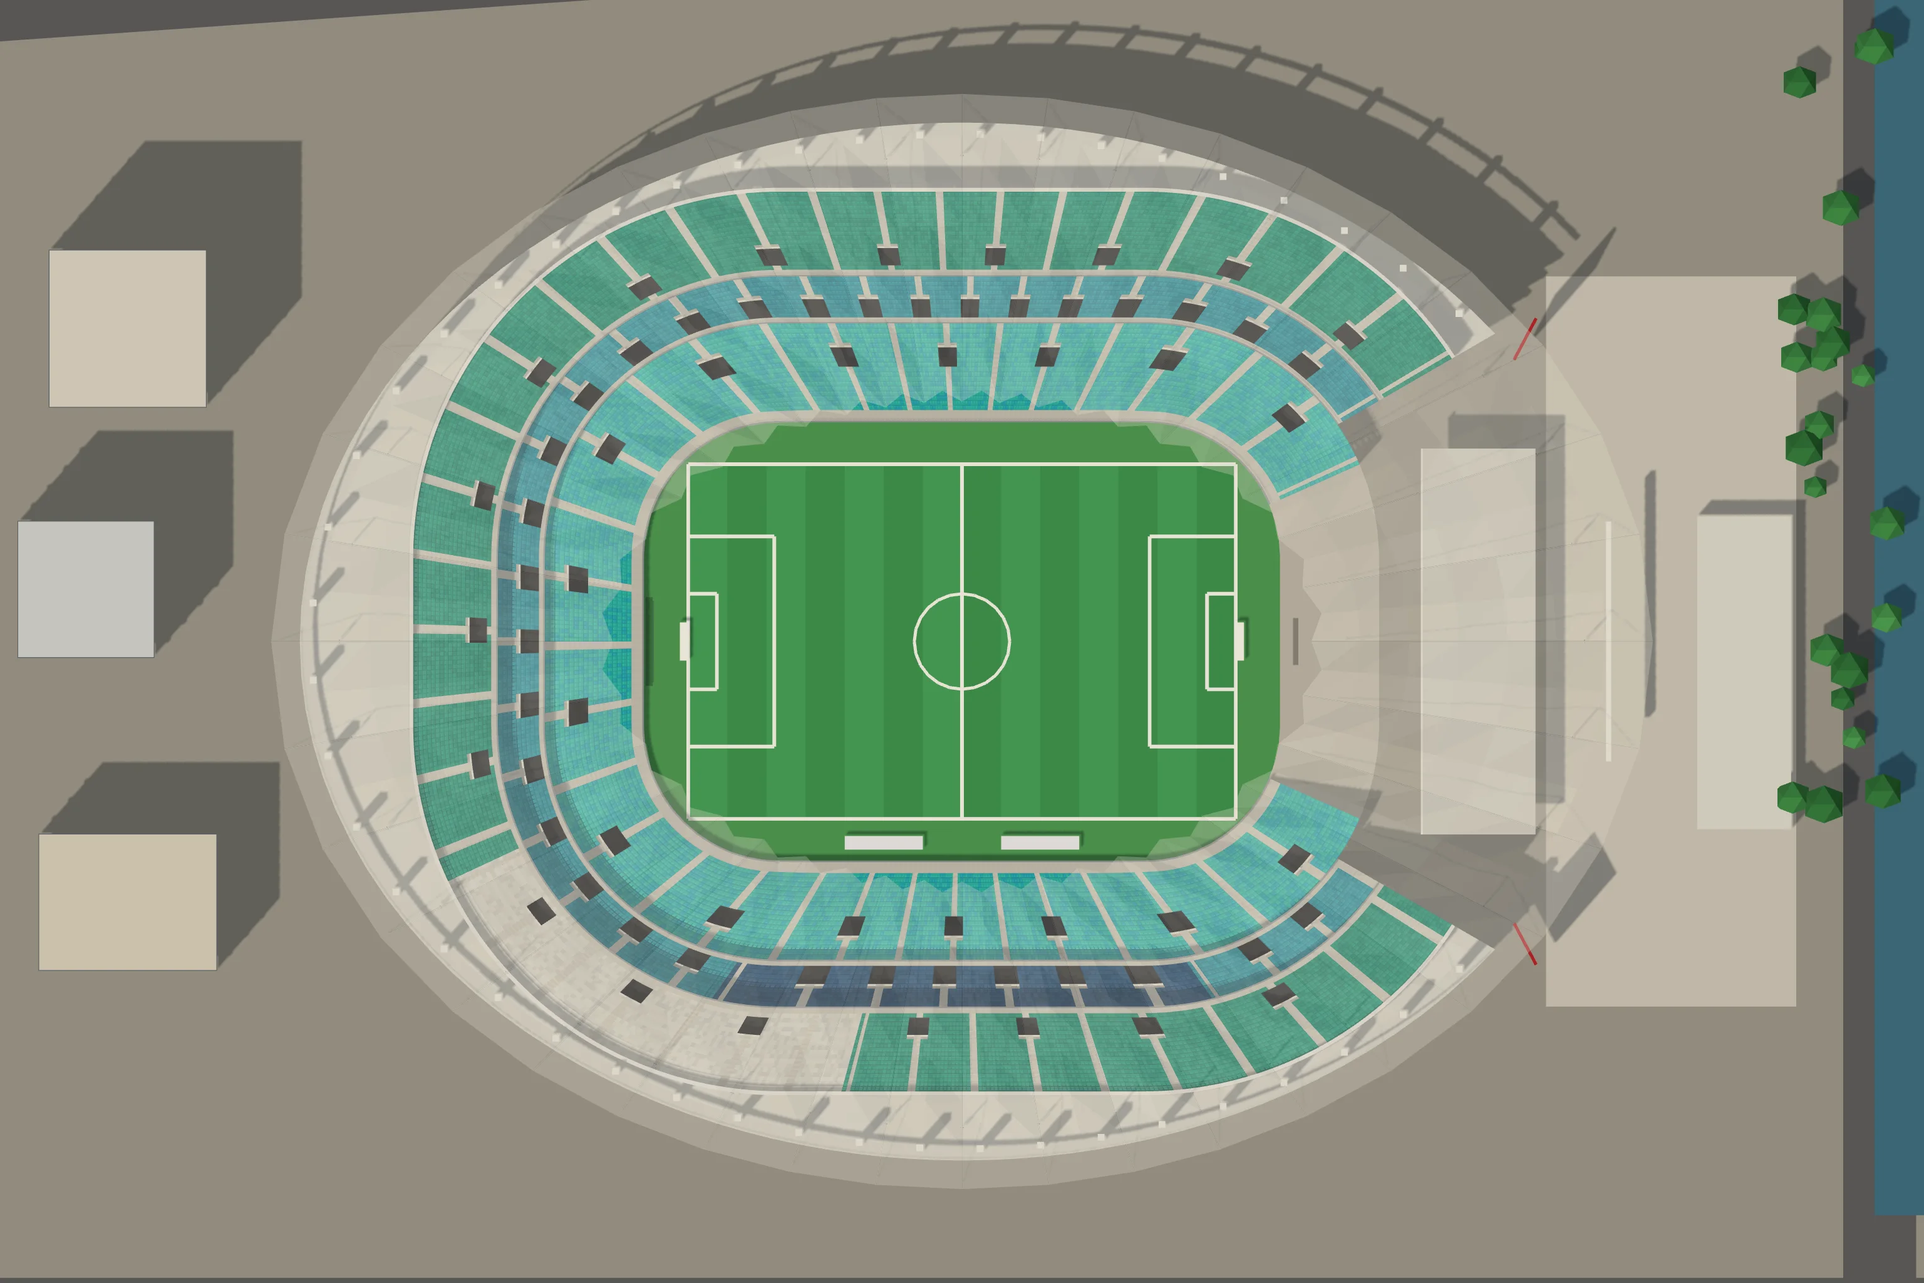
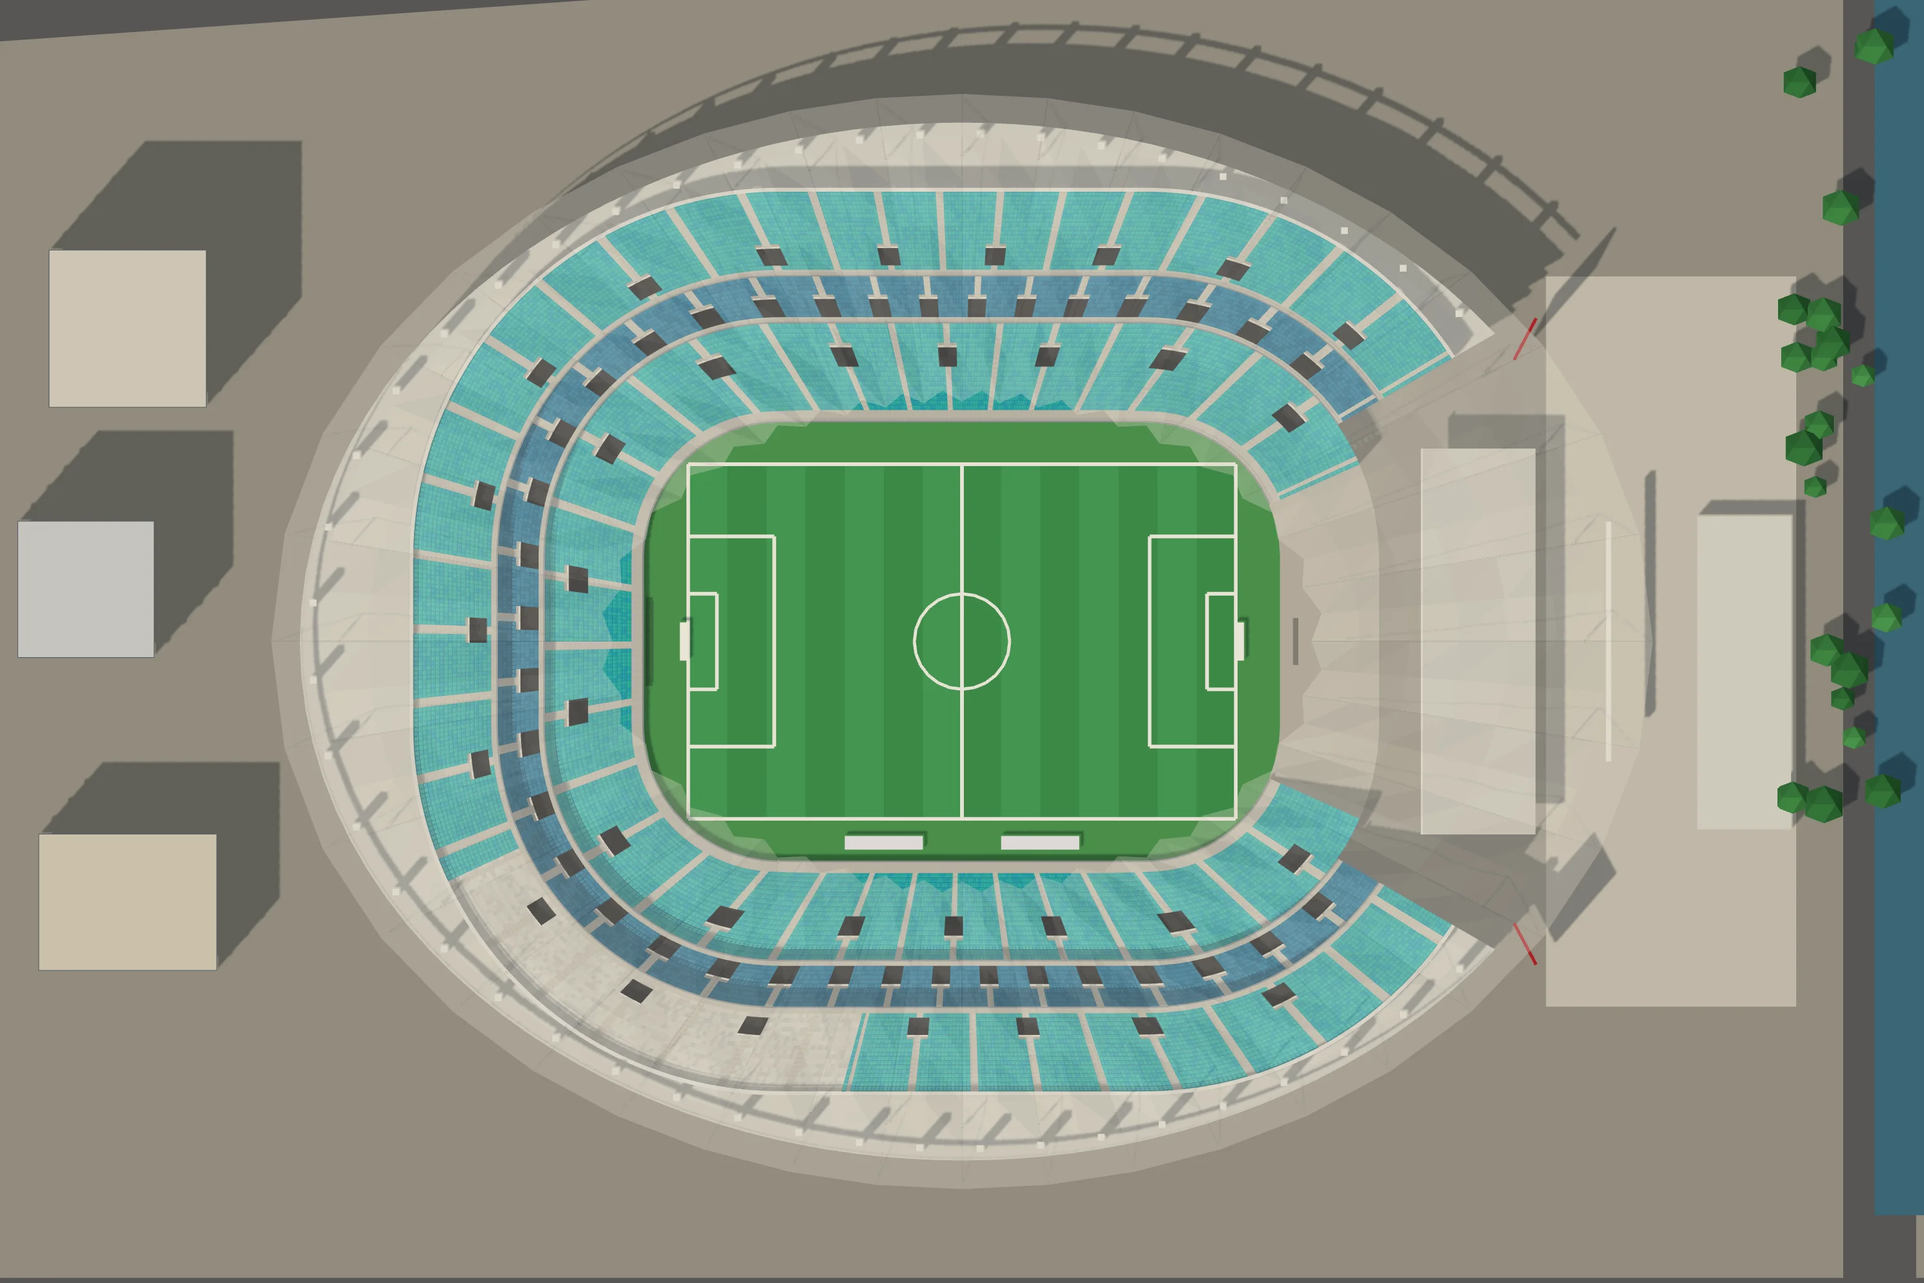
Fonte Nova: azul claro embaixo e em cima, só o anel do meio de outro tom
Claude-Session: https://claude.ai/code/session_019hwwMAyyP7ZAvyq6wYTetr

Changed region(s): [[0.1875, 0.125, 0.75, 0.875]]

diff --git a/cenario3d/planta.html b/cenario3d/planta.html
@@ -289,24 +289,24 @@ button:focus-visible, input:focus-visible { outline: 2px solid var(--selecao); o
 
 <script type="module">
 import * as THREE from 'https://cdn.jsdelivr.net/npm/three@0.160.0/build/three.module.min.js';
-import { planoDaCasa, montarCasa, juntarBlocos, lugarDoDecalque, placasDoLote, segmentosDoMuro, carrosDoEstacionamento, portaoDoEstacionamento } from './js/casas3d.js?v=3123ea01e8';
-import { montarModelos } from './js/modelos3d.js?v=3123ea01e8';
-import { moldeDaPeca, comTransformador } from './js/props3d.js?v=3123ea01e8';
-import { ATLAS } from './js/modelos_atlas.js?v=3123ea01e8';
-import { Construtor, sorteio } from './js/construtor3d.js?v=3123ea01e8';
-import { gerarProposta, MAPAS, MAPA_DO_PORTE, RUA, LONGE_DO_ESTADIO_M, cisaoDaPraca, VAO_CIDADES_M, PRAIA_A_MAIS } from './js/proposta.js?v=3123ea01e8';
-import { montarSede, nivelQueCabe } from './js/sede3d.js?v=3123ea01e8';
-import { onibus as onibusDetalhe, juntar as juntarDetalhe } from './js/detalhe3d.js?v=3123ea01e8';
-import { montarLoteDeVeraneio, plantaDoLote, festaNoMundo, noMundoDoLote, cenaDaFesta, detalheDaCasaDaFesta } from './js/veraneio3d.js?v=3123ea01e8';
-import { montarCaravana, cenaDaCaravana } from './js/caravana3d.js?v=3123ea01e8';
-import { montarEstacao, montarTunel, montarCarro, TREM } from './js/metro3d.js?v=3123ea01e8';
-import { montarShopping, montarDelegacia, montarPraca, montarIgreja, montarEscola, montarHospital } from './js/equip3d.js?v=3123ea01e8';
-import { montarEquipAntigo, TIPOS_ANTIGOS } from './js/equip_antigo3d.js?v=3123ea01e8';
-import { PECAS_PRAIA, montarPecaDaPraia } from './js/praia3d.js?v=3123ea01e8';
-import { ESPECIES_LP, FLORA_LP, montarArvoreLowpoly, montarAsDez, facesDaArvore, especieLowpolyDe } from './js/arvores_lowpoly.js?v=3123ea01e8';
-import { plantarMato, montarMato, LONGE_M, DENSIDADE, LADRILHO_M } from './js/mato3d.js?v=3123ea01e8';
-import { ESTADIOS_JOGO, montarEstadioJogo, glbDoEstadio, cortarEstadio, plantaDoEstadio, modeloDaLotacao, nomeDoLetreiro, nomeComAcento, marcaDoEstadio, BOCAS_DOS_PORTOES, BILHETERIAS_DA_RUA } from './js/estadios3d.js?v=3123ea01e8';
-import { PECAS_AMBULANTES, montarAmbulante } from './js/ambulantes3d.js?v=3123ea01e8';
+import { planoDaCasa, montarCasa, juntarBlocos, lugarDoDecalque, placasDoLote, segmentosDoMuro, carrosDoEstacionamento, portaoDoEstacionamento } from './js/casas3d.js?v=9a17eb557d';
+import { montarModelos } from './js/modelos3d.js?v=9a17eb557d';
+import { moldeDaPeca, comTransformador } from './js/props3d.js?v=9a17eb557d';
+import { ATLAS } from './js/modelos_atlas.js?v=9a17eb557d';
+import { Construtor, sorteio } from './js/construtor3d.js?v=9a17eb557d';
+import { gerarProposta, MAPAS, MAPA_DO_PORTE, RUA, LONGE_DO_ESTADIO_M, cisaoDaPraca, VAO_CIDADES_M, PRAIA_A_MAIS } from './js/proposta.js?v=9a17eb557d';
+import { montarSede, nivelQueCabe } from './js/sede3d.js?v=9a17eb557d';
+import { onibus as onibusDetalhe, juntar as juntarDetalhe } from './js/detalhe3d.js?v=9a17eb557d';
+import { montarLoteDeVeraneio, plantaDoLote, festaNoMundo, noMundoDoLote, cenaDaFesta, detalheDaCasaDaFesta } from './js/veraneio3d.js?v=9a17eb557d';
+import { montarCaravana, cenaDaCaravana } from './js/caravana3d.js?v=9a17eb557d';
+import { montarEstacao, montarTunel, montarCarro, TREM } from './js/metro3d.js?v=9a17eb557d';
+import { montarShopping, montarDelegacia, montarPraca, montarIgreja, montarEscola, montarHospital } from './js/equip3d.js?v=9a17eb557d';
+import { montarEquipAntigo, TIPOS_ANTIGOS } from './js/equip_antigo3d.js?v=9a17eb557d';
+import { PECAS_PRAIA, montarPecaDaPraia } from './js/praia3d.js?v=9a17eb557d';
+import { ESPECIES_LP, FLORA_LP, montarArvoreLowpoly, montarAsDez, facesDaArvore, especieLowpolyDe } from './js/arvores_lowpoly.js?v=9a17eb557d';
+import { plantarMato, montarMato, LONGE_M, DENSIDADE, LADRILHO_M } from './js/mato3d.js?v=9a17eb557d';
+import { ESTADIOS_JOGO, montarEstadioJogo, glbDoEstadio, cortarEstadio, plantaDoEstadio, modeloDaLotacao, nomeDoLetreiro, nomeComAcento, marcaDoEstadio, BOCAS_DOS_PORTOES, BILHETERIAS_DA_RUA } from './js/estadios3d.js?v=9a17eb557d';
+import { PECAS_AMBULANTES, montarAmbulante } from './js/ambulantes3d.js?v=9a17eb557d';
 
 const $ = id => document.getElementById(id);
 const aviso = $('aviso');
@@ -323,25 +323,25 @@ function carregarScript(src) {
 }
 window.TO = window.TO || { dados: {} };
 try {
-  await carregarScript('dados/torcidas.js?v=3123ea01e8');
-  await carregarScript('dados/times.js?v=3123ea01e8');
-  await carregarScript('dados/cena_estadio.js?v=3123ea01e8');
-  await carregarScript('dados/cidades.js?v=3123ea01e8');
-  await carregarScript('dados/estadios.js?v=3123ea01e8');
-  await carregarScript('dados/escudos.js?v=3123ea01e8');
+  await carregarScript('dados/torcidas.js?v=9a17eb557d');
+  await carregarScript('dados/times.js?v=9a17eb557d');
+  await carregarScript('dados/cena_estadio.js?v=9a17eb557d');
+  await carregarScript('dados/cidades.js?v=9a17eb557d');
+  await carregarScript('dados/estadios.js?v=9a17eb557d');
+  await carregarScript('dados/escudos.js?v=9a17eb557d');
   /* o manifesto das faixas de verdade (a arte do dono, 29/09/2026): a arquibancada estende a da torcida */
-  await carregarScript('dados/faixas.js?v=3123ea01e8').catch(() => {});
+  await carregarScript('dados/faixas.js?v=9a17eb557d').catch(() => {});
   /* O DOMÍNIO DOS BAIRROS (o dono, 30/09/2026): as sedes repetidas num
      bairro saem espalhadas (nos dados, na carga) e os bares ganham o
      bairro deles — o mesmo módulo do jogo (js/mundo/dominio.js) */
-  await carregarScript('js/dominio.js?v=3123ea01e8').catch(() => {});
+  await carregarScript('js/dominio.js?v=9a17eb557d').catch(() => {});
 } catch (e) {
   aviso.textContent = 'A planta da cidade não carregou (' + e.message + '). Recarregue a página.';
   throw e;
 }
 /* os PNG dos escudos, embutidos (o montar.sh gera): sem o arquivo, o
    caminho vai direto pra img/escudos/ */
-await carregarScript('dados/escudos_embutidos.js?v=3123ea01e8').catch(() => {});
+await carregarScript('dados/escudos_embutidos.js?v=9a17eb557d').catch(() => {});
 const P = TO.dados.plantaEstadio, K = P.CIDADE, M = P.METRO, CALC = K.CALC;
 /* o mapa da vez (o pequeno, o médio ou o grande, montado pra praça
    escolhida): quem monta é usarMapa, lá embaixo */

diff --git a/cenario3d/dados/estadios_cenas.js b/cenario3d/dados/estadios_cenas.js
@@ -19001,7 +19001,7 @@ window.__ESTADIOS = {
    "visitante": 3
   },
   "foto": {
-   "imagem": "img/cenas/estadio_arena_fonte_nova.webp?v=b53ef51c",
+   "imagem": "img/cenas/estadio_arena_fonte_nova.webp?v=e9640e2f",
    "mascara": "384;384;384;384;384;384;384;384;384;384;384;384;384;384;384;384;384;384;384;384;384;384;384;384;384;384;384;384;384;384;384;384;384;384;384;384;384;384;148,88,148;141,102,141;137,110,137;133,118,133;130,124,130;128,128,128;125,134,125;123,138,123;121,142,121;119,146,119;118,148,118;116,152,116;115,154,115;113,158,113;112,160,112;110,164,110;109,166,109;108,168,108;107,170,107;106,172,106;105,174,105;104,176,104;103,178,103;102,180,102;101,182,101;100,184,100;99,186,99;98,188,98;97,190,97;97,190,97;96,192,96;95,194,95;95,194,95;94,196,94;93,195,96;93,193,98;92,192,100;92,191,101;91,190,103;90,189,105;90,188,106;90,186,108;89,185,110;89,183,112;88,183,113;88,181,115;87,62,86,32,117;87,59,92,30,116;87,57,96,28,116;86,56,100,27,115;86,54,104,26,114;86,53,106,25,114;85,53,108,25,113;85,52,110,24,113;85,51,112,23,113;84,51,114,23,112;84,50,116,22,112;84,49,118,22,111;84,48,120,21,111;84,48,120,21,111;83,48,122,21,110;83,48,122,21,110;83,47,124,20,110;83,47,124,20,110;83,46,126,20,109;83,46,126,20,109;83,46,126,20,109;83,46,126,20,109;82,46,128,19,109;82,46,128,19,109;82,46,128,19,109;82,46,128,19,109;82,46,128,19,109;82,46,128,19,109;82,46,128,19,109;82,46,128,19,109;82,46,128,19,109;82,46,128,19,109;82,46,128,19,109;82,46,128,19,109;82,46,128,19,109;82,46,128,19,109;82,46,128,19,109;82,46,128,19,109;82,46,128,19,109;82,46,128,19,109;82,46,128,19,109;82,46,128,19,109;82,46,128,19,109;82,46,128,19,109;82,46,128,19,109;82,46,128,19,109;82,46,128,19,109;82,46,128,19,109;82,46,128,19,109;82,46,128,19,109;82,46,128,19,109;82,46,128,19,109;82,46,128,19,109;82,46,128,19,109;82,46,128,19,109;82,46,128,19,109;82,46,128,19,109;82,46,128,19,109;82,46,128,19,109;82,46,128,19,109;82,46,128,19,109;82,46,128,19,109;82,46,128,19,109;82,46,128,19,109;82,46,128,19,109;82,46,128,19,109;83,46,126,20,109;83,46,126,20,109;83,46,126,20,109;83,46,126,20,109;83,47,124,20,110;83,47,124,20,110;83,48,122,21,110;83,48,122,21,110;84,48,120,21,111;84,48,120,21,111;84,49,118,22,111;84,50,116,22,112;84,51,114,23,112;85,51,112,23,113;85,52,110,24,113;85,53,108,25,113;86,53,106,25,114;86,54,104,26,114;86,56,100,27,115;87,57,96,28,116;87,59,92,30,116;87,62,86,32,117;88,181,115;88,183,113;89,183,112;89,185,110;90,186,108;90,188,106;90,189,105;91,190,103;92,191,101;92,192,100;93,193,98;93,195,96;94,196,94;95,194,95;95,194,95;96,192,96;97,190,97;97,190,97;98,188,98;99,186,99;100,184,100;101,182,101;102,180,102;103,178,103;104,176,104;105,174,105;106,172,106;107,170,107;108,168,108;109,166,109;110,164,110;112,160,112;113,158,113;115,154,115;116,152,116;118,148,118;119,146,119;121,142,121;123,138,123;125,134,125;128,128,128;130,124,130;133,118,133;137,110,137;141,102,141;148,88,148;384;384;384;384;384;384;384;384;384;384;384;384;384;384;384;384;384;384;384;384;384;384;384;384;384;384;384;384;384;384;384;384;384;384;384;384;384;384"
   },
   "cena": {

diff --git a/cenario3d/js/jogo2d.js b/cenario3d/js/jogo2d.js
@@ -17,7 +17,7 @@
    cartão da partida cai perto da hora da bola e nada do que conta o
    placar passa na frente dele.
    ========================================================= */
-import { CASCA } from './jogo_casca.js?v=3123ea01e8';
+import { CASCA } from './jogo_casca.js?v=9a17eb557d';
 
 const carregarScript = src => new Promise((ok, erro) => {
   const s = document.createElement('script');
@@ -31,18 +31,18 @@ async function montarJogo() {
   caixa.innerHTML = CASCA;
   while (caixa.firstChild) document.body.appendChild(caixa.firstChild);
   /* os escudos, as fotos das praças e as bandeiras embutidos (o `IMG()` do jogo procura aqui antes do caminho) */
-  await carregarScript('dados/imagens_jogo.js?v=3123ea01e8').catch(() => {});
+  await carregarScript('dados/imagens_jogo.js?v=9a17eb557d').catch(() => {});
   /* os estádios low-poly das cenas (ferramentas/estadios/assar.js): antes do jogo, que monta as cenas quando carrega */
-  await carregarScript('dados/estadios_cenas.js?v=3123ea01e8').catch(() => {});
-  await carregarScript('dados/arredores_cenas.js?v=3123ea01e8').catch(() => {});
+  await carregarScript('dados/estadios_cenas.js?v=9a17eb557d').catch(() => {});
+  await carregarScript('dados/arredores_cenas.js?v=9a17eb557d').catch(() => {});
   /* sem o rolo do feed: a tela entre os jogos é o portal */
   window.TO = window.TO || {};
   TO.semFeed = true;
-  await carregarScript('js/jogo.js?v=3123ea01e8');
-  await carregarScript('js/portal.js?v=3123ea01e8').catch(err => console.error('o portal não carregou:', err));
+  await carregarScript('js/jogo.js?v=9a17eb557d');
+  await carregarScript('js/portal.js?v=9a17eb557d').catch(err => console.error('o portal não carregou:', err));
   /* o boneco das cenas de imagem (os dois níveis afinados, em base64) */
-  if (!TO.dados.bonecoPertoGLB) await carregarScript('dados/boneco_glb.js?v=3123ea01e8').catch(() => {});
-  await import('./bonecos3_global.js?v=3123ea01e8').catch(err => console.error('o boneco das cenas não carregou:', err));
+  if (!TO.dados.bonecoPertoGLB) await carregarScript('dados/boneco_glb.js?v=9a17eb557d').catch(() => {});
+  await import('./bonecos3_global.js?v=9a17eb557d').catch(err => console.error('o boneco das cenas não carregou:', err));
   ligar();
 }
 

diff --git a/cenario3d/jogo.html b/cenario3d/jogo.html
@@ -9,16 +9,16 @@
 <link rel="preconnect" href="https://fonts.googleapis.com">
 <link rel="preconnect" href="https://fonts.gstatic.com" crossorigin>
 <link rel="stylesheet" href="https://fonts.googleapis.com/css2?family=Barlow+Semi+Condensed:wght@500;600;700&family=Barlow:wght@400;500;600&family=IBM+Plex+Mono:wght@400;500&display=swap">
-<link rel="stylesheet" href="css/jogo.css?v=3123ea01e8">
-<link rel="stylesheet" href="css/jogo3d.css?v=3123ea01e8">
-<link rel="stylesheet" href="css/portal.css?v=3123ea01e8">
-<link rel="stylesheet" href="css/telas3d.css?v=3123ea01e8">
+<link rel="stylesheet" href="css/jogo.css?v=9a17eb557d">
+<link rel="stylesheet" href="css/jogo3d.css?v=9a17eb557d">
+<link rel="stylesheet" href="css/portal.css?v=9a17eb557d">
+<link rel="stylesheet" href="css/telas3d.css?v=9a17eb557d">
 <style>
 [hidden] { display: none !important; }
 html, body { height: 100%; margin: 0; }
 </style>
 </head>
 <body class="jogo3d">
-<script type="module" src="js/jogo2d.js?v=3123ea01e8"></script>
+<script type="module" src="js/jogo2d.js?v=9a17eb557d"></script>
 </body>
 </html>

diff --git a/cenario3d/js/casas3d.js b/cenario3d/js/casas3d.js
@@ -60,10 +60,10 @@
    avançam (`rec`), e o letreiro, a pixação e a falha de reboco do
    bairro vão pro plano dessa parede, não pro da divisa.
    ========================================================= */
-import { Construtor, METRO, mureta, toldo, arSplit, sorteio } from './construtor3d.js?v=3123ea01e8';
-import { ATLAS } from './modelos_atlas.js?v=3123ea01e8';
+import { Construtor, METRO, mureta, toldo, arSplit, sorteio } from './construtor3d.js?v=9a17eb557d';
+import { ATLAS } from './modelos_atlas.js?v=9a17eb557d';
 /* as lojas do assalto (lojas3d.js): modelos de lote como os outros */
-import { TIPOS_LOJA, REC_LOJA, placaDaLoja } from './lojas3d.js?v=3123ea01e8';
+import { TIPOS_LOJA, REC_LOJA, placaDaLoja } from './lojas3d.js?v=9a17eb557d';
 
 /* o arquivo de cada folha, pro bairro montar o material dele */
 export const arquivoDaFolha = folha => ATLAS[folha].arquivo;

diff --git a/cenario3d/js/ambulantes3d.js b/cenario3d/js/ambulantes3d.js
@@ -27,8 +27,8 @@
    que a planta acha o lugar dela na calçada do estádio. `sol`: o meio e
    o raio da copa ([x, z, r]), que o mapa desenha de perto.
    ========================================================= */
-import { Construtor, noMundo, placasNoMundo, sorteio, esfera, unit } from './construtor3d.js?v=3123ea01e8';
-import { Lugar, barra, tubo, cilindro, bloco, pano, toro, guardaSol, cadeiraPlastica, isopor, banqueta, CORES_SOL } from './praia3d.js?v=3123ea01e8';
+import { Construtor, noMundo, placasNoMundo, sorteio, esfera, unit } from './construtor3d.js?v=9a17eb557d';
+import { Lugar, barra, tubo, cilindro, bloco, pano, toro, guardaSol, cadeiraPlastica, isopor, banqueta, CORES_SOL } from './praia3d.js?v=9a17eb557d';
 
 const AQUI = Lugar();
 const escolha = (rnd, lista) => lista[Math.floor(rnd() * lista.length) % lista.length];

diff --git a/cenario3d/js/praia3d.js b/cenario3d/js/praia3d.js
@@ -36,8 +36,8 @@
    cadeira e a mesa de plástico) servem também os ambulantes da porta do
    estádio (ambulantes3d.js), na mesma folha.
    ========================================================= */
-import { Construtor, METRO, lerp, sub, soma, esc, unit, pv, noMundo, placasNoMundo, sorteio, varrer, esfera } from './construtor3d.js?v=3123ea01e8';
-import { montarArvoreLowpoly } from './arvores_lowpoly.js?v=3123ea01e8';
+import { Construtor, METRO, lerp, sub, soma, esc, unit, pv, noMundo, placasNoMundo, sorteio, varrer, esfera } from './construtor3d.js?v=9a17eb557d';
+import { montarArvoreLowpoly } from './arvores_lowpoly.js?v=9a17eb557d';
 
 const ALTO = [0, 1, 0];
 const escolha = (rnd, lista) => lista[Math.floor(rnd() * lista.length) % lista.length];

diff --git a/cenario3d/js/modelos3d.js b/cenario3d/js/modelos3d.js
@@ -32,8 +32,8 @@
    requadro da janela, toldo, ar-condicionado. O resto é pintura.
    ========================================================= */
 import * as THREE from 'https://cdn.jsdelivr.net/npm/three@0.160.0/build/three.module.min.js';
-import { ATLAS } from './modelos_atlas.js?v=3123ea01e8';
-import { Construtor, METRO, lerp, sub, soma, esc, pv, pe, unit, recuoPoligono, mureta, toldo, arSplit } from './construtor3d.js?v=3123ea01e8';
+import { ATLAS } from './modelos_atlas.js?v=9a17eb557d';
+import { Construtor, METRO, lerp, sub, soma, esc, pv, pe, unit, recuoPoligono, mureta, toldo, arSplit } from './construtor3d.js?v=9a17eb557d';
 
 /* =======================================================
    1. A IGREJA MATRIZ

diff --git a/cenario3d/js/props3d.js b/cenario3d/js/props3d.js
@@ -26,8 +26,8 @@
    poste vira uma haste de longe; o resto, que é miúdo, some.
    ========================================================= */
 import * as THREE from 'https://cdn.jsdelivr.net/npm/three@0.160.0/build/three.module.min.js';
-import { ATLAS } from './modelos_atlas.js?v=3123ea01e8';
-import { Construtor, METRO, lerp } from './construtor3d.js?v=3123ea01e8';
+import { ATLAS } from './modelos_atlas.js?v=9a17eb557d';
+import { Construtor, METRO, lerp } from './construtor3d.js?v=9a17eb557d';
 
 /* as cores que o vértice dá pro que sai claro na folha */
 const COR_CESTO = ['#6aa33a', '#d2b53a', '#3f82ad', '#8b6a3c', '#b8452f'];

diff --git a/cenario3d/js/mato3d.js b/cenario3d/js/mato3d.js
@@ -19,8 +19,8 @@
 
    Tudo em metros; `noMundo` converte. A mesma semente dá o mesmo mato.
    ========================================================= */
-import { METRO, noMundo, sorteio } from './construtor3d.js?v=3123ea01e8';
-import { facesDaArvore, especieLowpolyDe } from './arvores_lowpoly.js?v=3123ea01e8';
+import { METRO, noMundo, sorteio } from './construtor3d.js?v=9a17eb557d';
+import { facesDaArvore, especieLowpolyDe } from './arvores_lowpoly.js?v=9a17eb557d';
 
 /* a área de chão de cada árvore (m²), por lugar */
 export const DENSIDADE = { mata: 70, cerrado: 200, caatinga: 150, sul: 90, praia: 120, cidade: 250 };

diff --git a/cenario3d/js/bonecos3_global.js b/cenario3d/js/bonecos3_global.js
@@ -14,7 +14,7 @@
    DOMContentLoaded: quem usa (a ponte, numa cena aberta pelo jogador)
    chega muito depois.
    ========================================================= */
-import { montar, desenharDeCima, desenharVitrine, limparDeCima, fotoDoTrofeu, fotoDaBriga, fotoDaCena, perdeu, bonecos } from './bonecos3_cena.js?v=3123ea01e8';
+import { montar, desenharDeCima, desenharVitrine, limparDeCima, fotoDoTrofeu, fotoDaBriga, fotoDaCena, perdeu, bonecos } from './bonecos3_cena.js?v=9a17eb557d';
 
 window.TO = window.TO || {};
 TO.diaJogo = TO.diaJogo || {};

diff --git a/cenario3d/js/bonecos3_cena.js b/cenario3d/js/bonecos3_cena.js
@@ -103,7 +103,7 @@
       numa fase sorteada (quem sai junto não sai no mesmo pé).
    ========================================================= */
 import * as THREE from 'https://cdn.jsdelivr.net/npm/three@0.160.0/build/three.module.min.js';
-import { GLTFLoader, SkeletonUtils } from './GLTFLoader.js?v=3123ea01e8';
+import { GLTFLoader, SkeletonUtils } from './GLTFLoader.js?v=9a17eb557d';
 
 /* onde o modelo mora, quando não vem embutido em base64: o detalhado
    (o do Blender) e os dois níveis afinados dele (ferramentas/afinar_boneco.mjs) */
